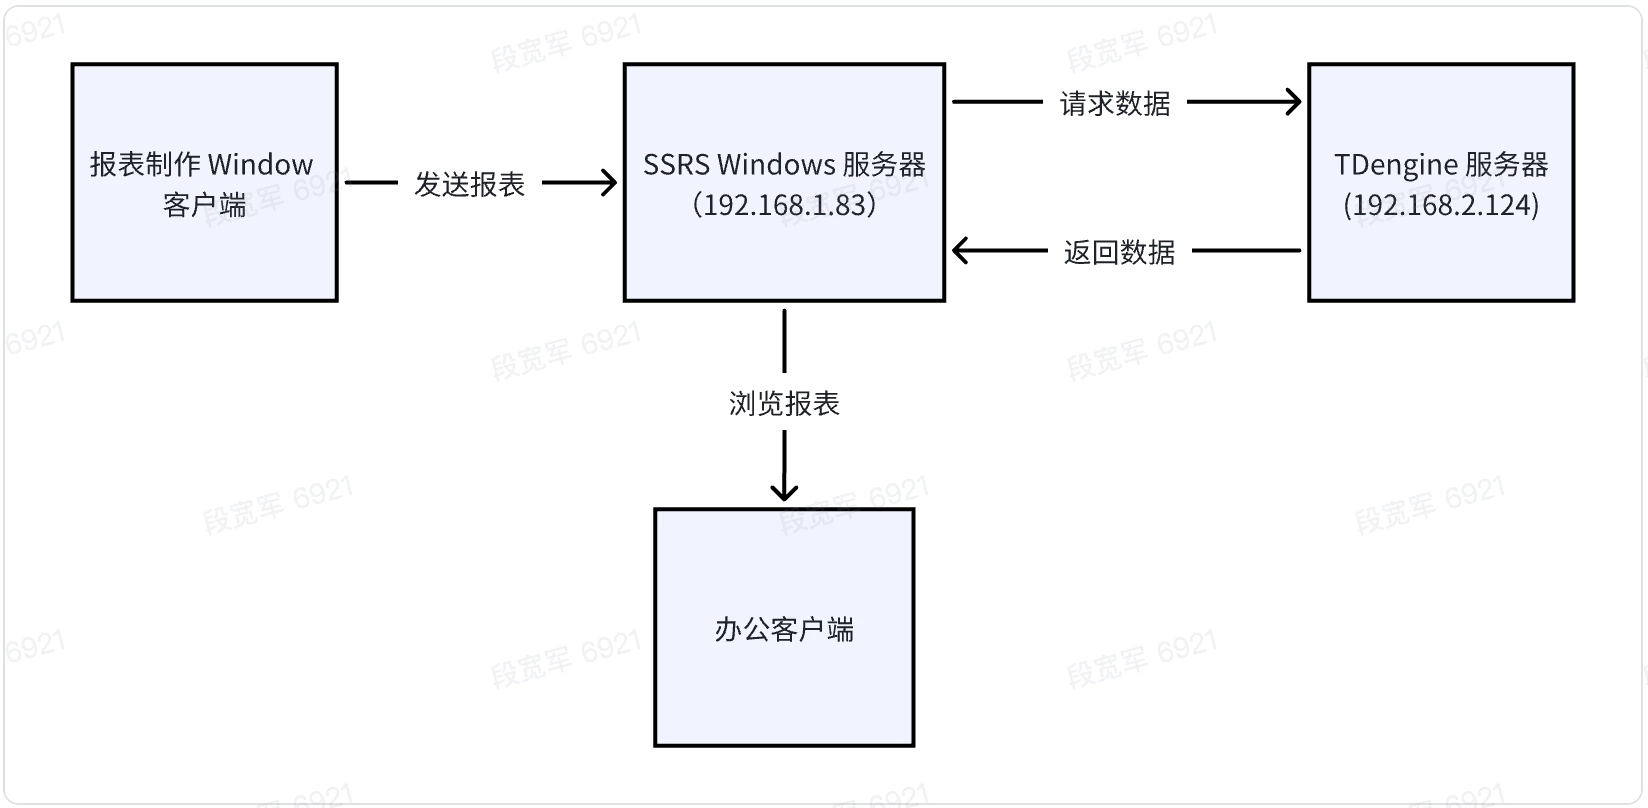
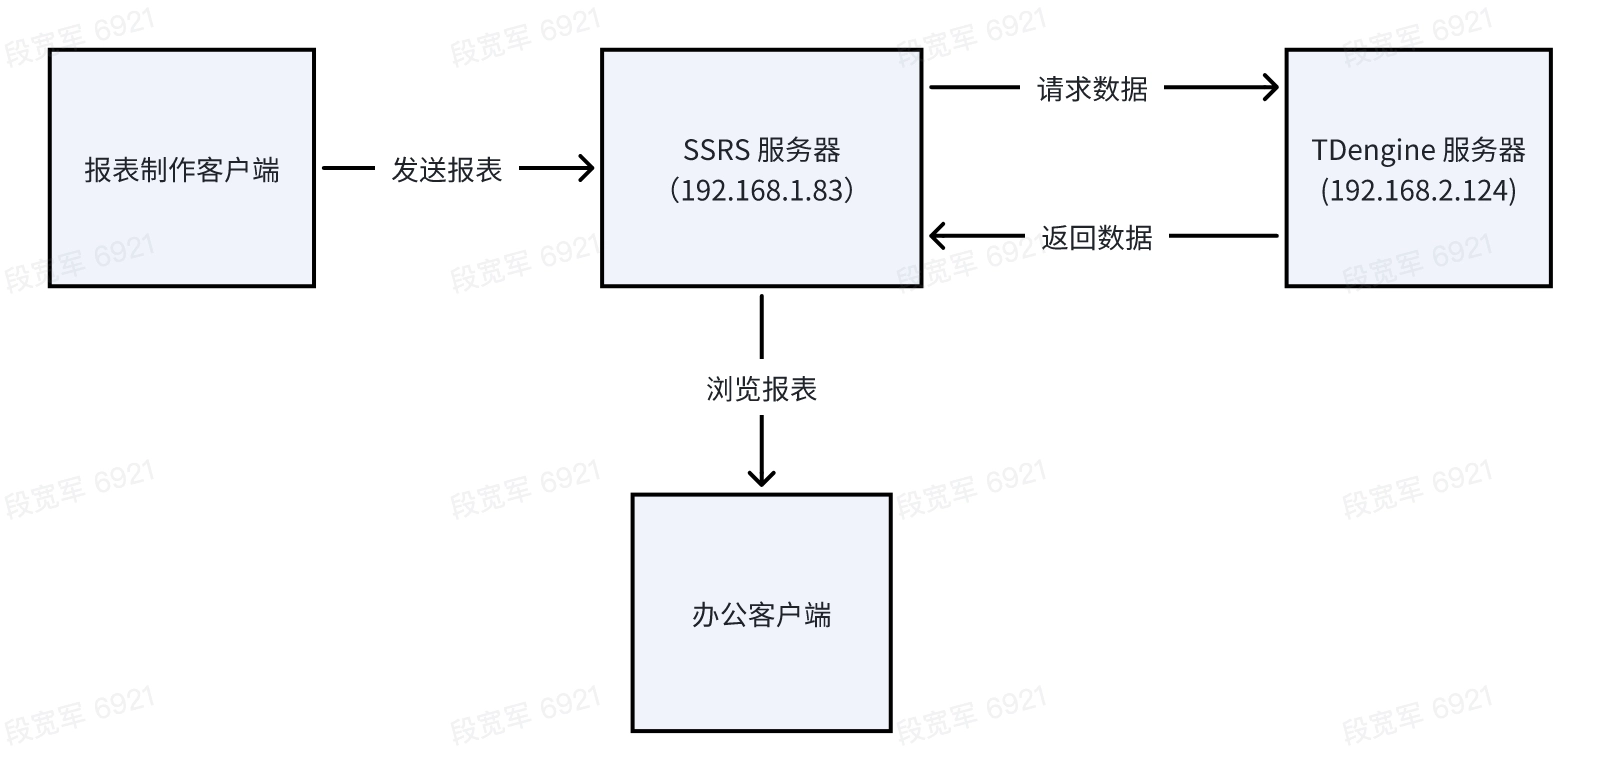
docs: review2 feedback modify

diff --git a/docs/zh/10-third-party/05-bi/16-SSRS.md b/docs/zh/10-third-party/05-bi/16-SSRS.md
@@ -16,13 +16,15 @@ TDengine 支持标准 ODBC 接口，SSRS 可实现无缝对接 TDengine。TDengi
 环境准备如下：
 ### TDengine 服务器
 
+- 操作系统不限。
 - 安装 TDengine 3.3.3.0 或以上服务器版（企业及社区版均可）。
 - taosAdapter 服务正常运行，检查参考 [taosAdapter 使用手册](../../../reference/components/taosadapter)。
 - 服务器 IP：192.168.2.124
 - 提供 WebSocket 服务：端口 6041（默认）
 
-### SSRS Windows 服务器
+### SSRS 服务器
 
+- 要求 Windows 操作系统。
 - 安装 TDengine 3.3.3.0 或以上 Windows 客户端版（默认安装 TDengine ODBC 驱动）。
 - 安装 Microsoft SQL Server 2022 且数据库服务正常运行，[下载安装](https://www.microsoft.com/zh-cn/sql-server/sql-server-downloads)。
 - 安装 Microsoft SQL Server 2022 Reporting Service 且报表服务正常运行，[下载安装](https://learn.microsoft.com/zh-cn/sql/reporting-services/install-windows/install-reporting-services?view=sql-server-ver16)。
@@ -33,8 +35,9 @@ TDengine 支持标准 ODBC 接口，SSRS 可实现无缝对接 TDengine。TDengi
    记录上图中“Report Server Web Service URLs”址址，会在后面步骤中使用。
 
 
-### 报表制作 Window 客户端
+### 报表制作客户端
 
+- 要求 Windows 操作系统。
 - 安装 TDengine 3.3.3.0 或以上 Windows 客户端版（默认安装 TDengine ODBC 驱动）。
 - 安装 Microsoft Report Builder（32 位），提供报表开发服务，[下载安装](https://www.microsoft.com/en-us/download/details.aspx?id=53613)。
 - 配置 Microsoft Report Builder 上报报表服务器地址，应填写前面记录的“Report Server Web Service URLs”址址。
@@ -51,8 +54,8 @@ TDengine 支持标准 ODBC 接口，SSRS 可实现无缝对接 TDengine。TDengi
 ## 配置数据源
 SSRS 通过 ODBC 访问 TDengine 数据源，配置步骤如下：
 
-1. SSRS Windows 服务器配置 ODBC 数据源   
-打开 ODBC 数据源管理器（64 位），选择“System DSN”->“Add...”->“TDengine”->“Finish”, 弹出窗口配置如下：
+1. SSRS 服务器配置 ODBC 数据源   
+   打开 ODBC 数据源管理器（64 位），选择“System DSN”->“Add...”->“TDengine”->“Finish”, 弹出配置窗口如下：
 
    ![cfg-1](img/cfg-1.webp)
 
@@ -64,18 +67,14 @@ SSRS 通过 ODBC 访问 TDengine 数据源，配置步骤如下：
    点击“Test Connection”，连接成功表示配置正确，点击“OK”保存配置。
 
 2. 报表制作 Window 客户端配置 ODBC 数据源。  
-打开 ODBC 数据源管理器（32 位），选择“System DSN”->“Add...”->“TDengine”->“Finish”, 弹出窗口配置如下：
+   打开 ODBC 数据源管理器（32 位），选择“System DSN”->“Add...”->“TDengine”->“Finish”, 弹出 ODBC 数据源配置窗口，内容填写请与上一步相同。
 
-   ![cfg-2](img/cfg-2.webp)
-
-   配置项内容填写同上步。
-  
    点击“Test Connection”，连接成功表示配置正确，点击“OK”保存配置。
 
 3. Report Builder 创建数据源连接  
    启动 Report Builder，左侧区域内”Data Source“项上点右键，点击“Add Data Source...”菜单，如图：
 
-   ![cfg-3](img/cfg-3.webp)
+   ![cfg-2](img/cfg-2.webp)
 
    - Name：填写数据源名称
    - 数据源方式：选择第二项“Use a connection embedded in my report”
